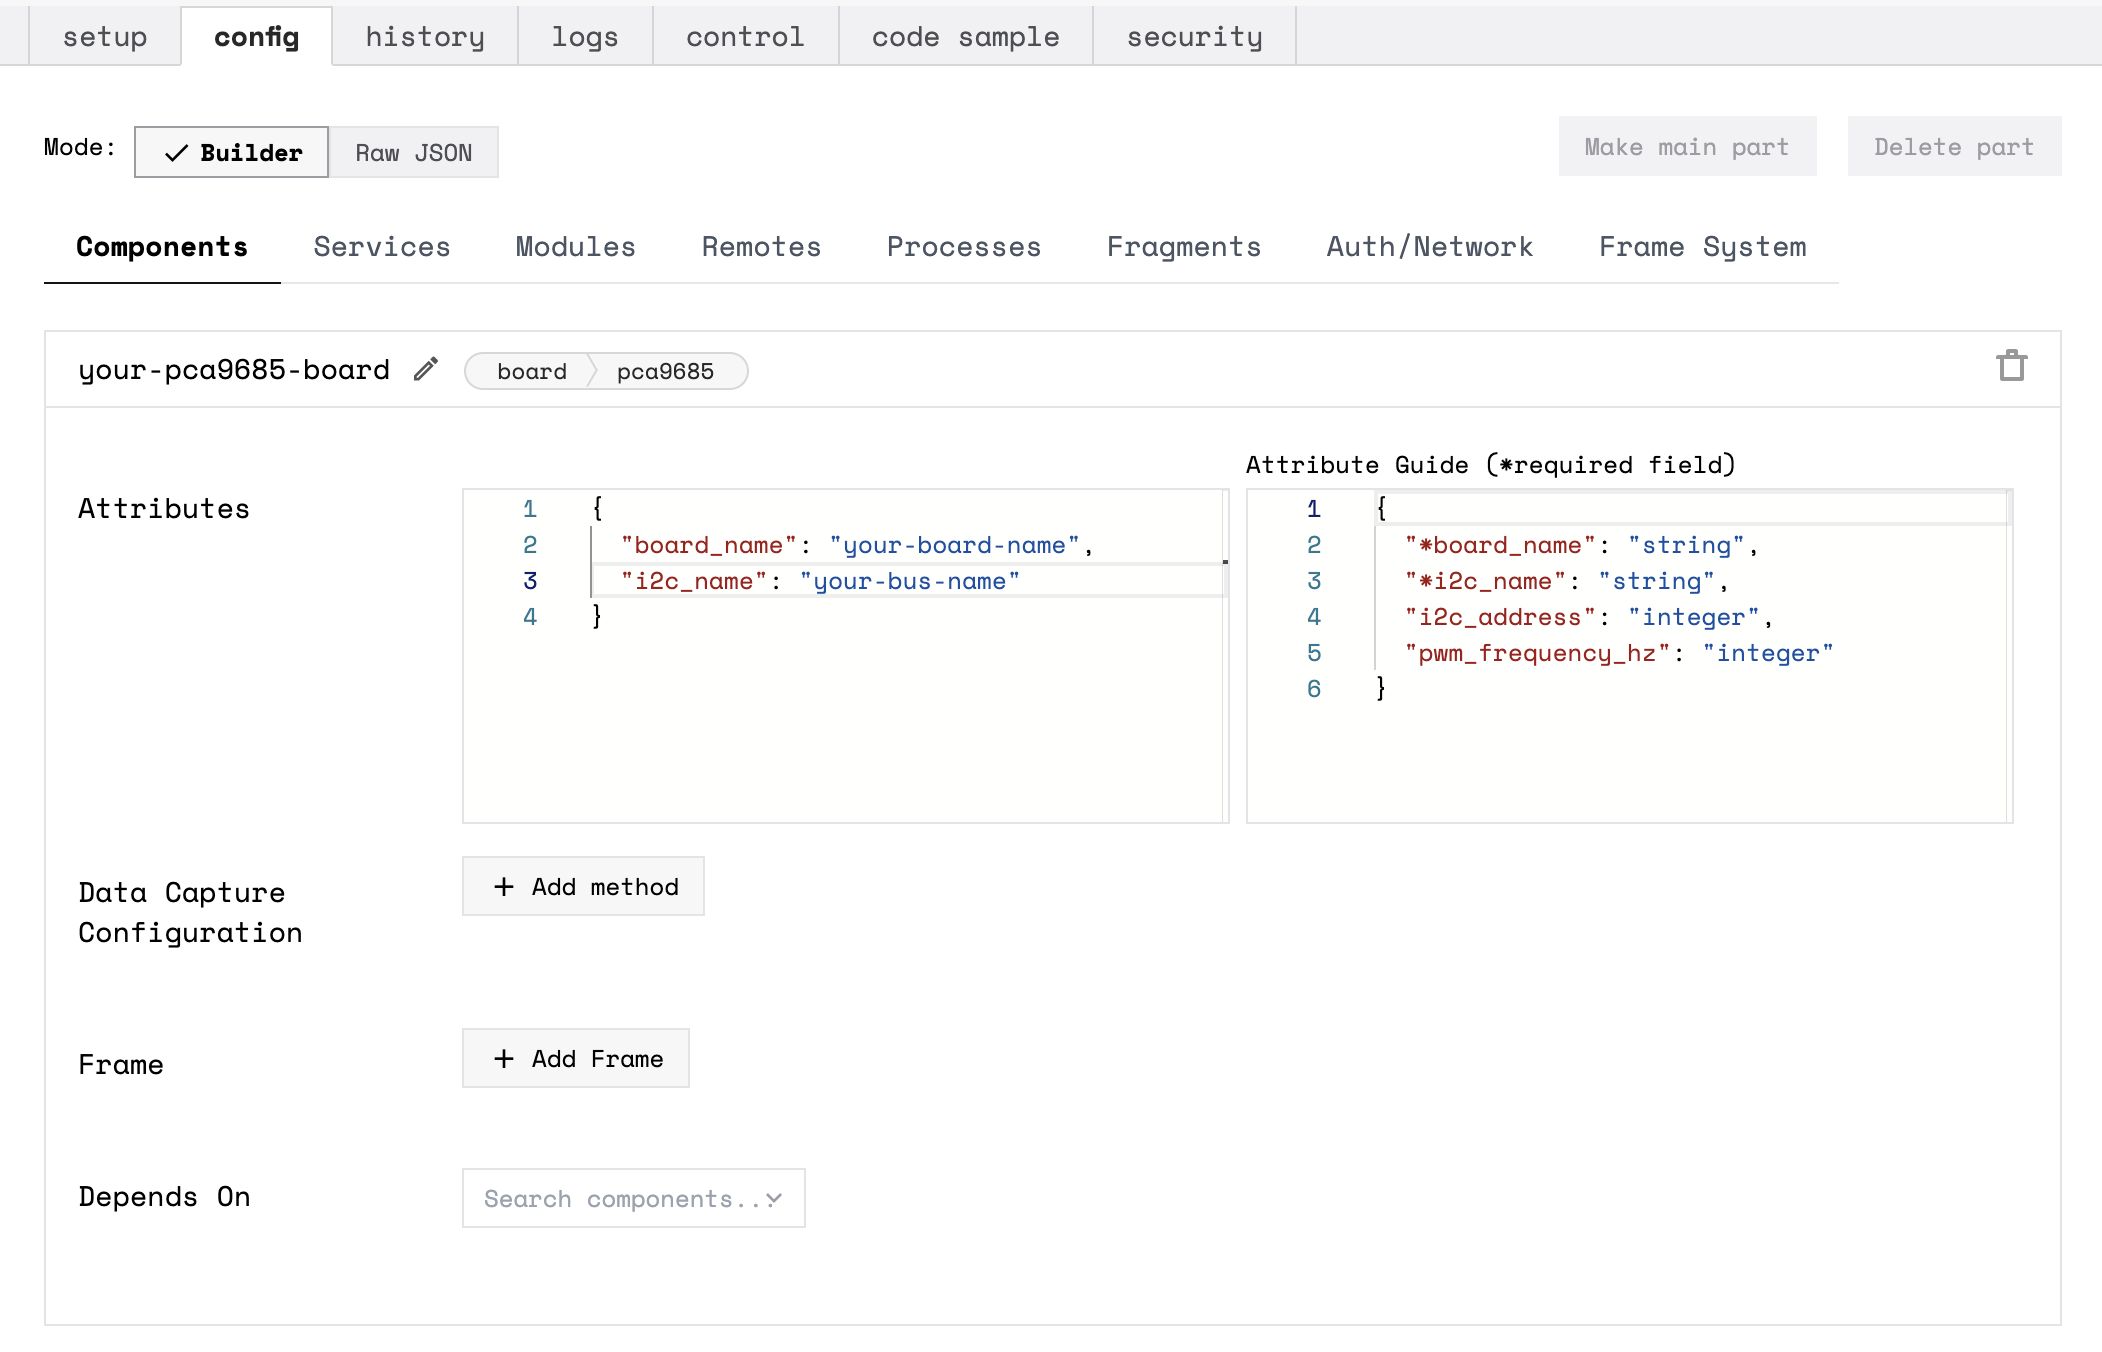
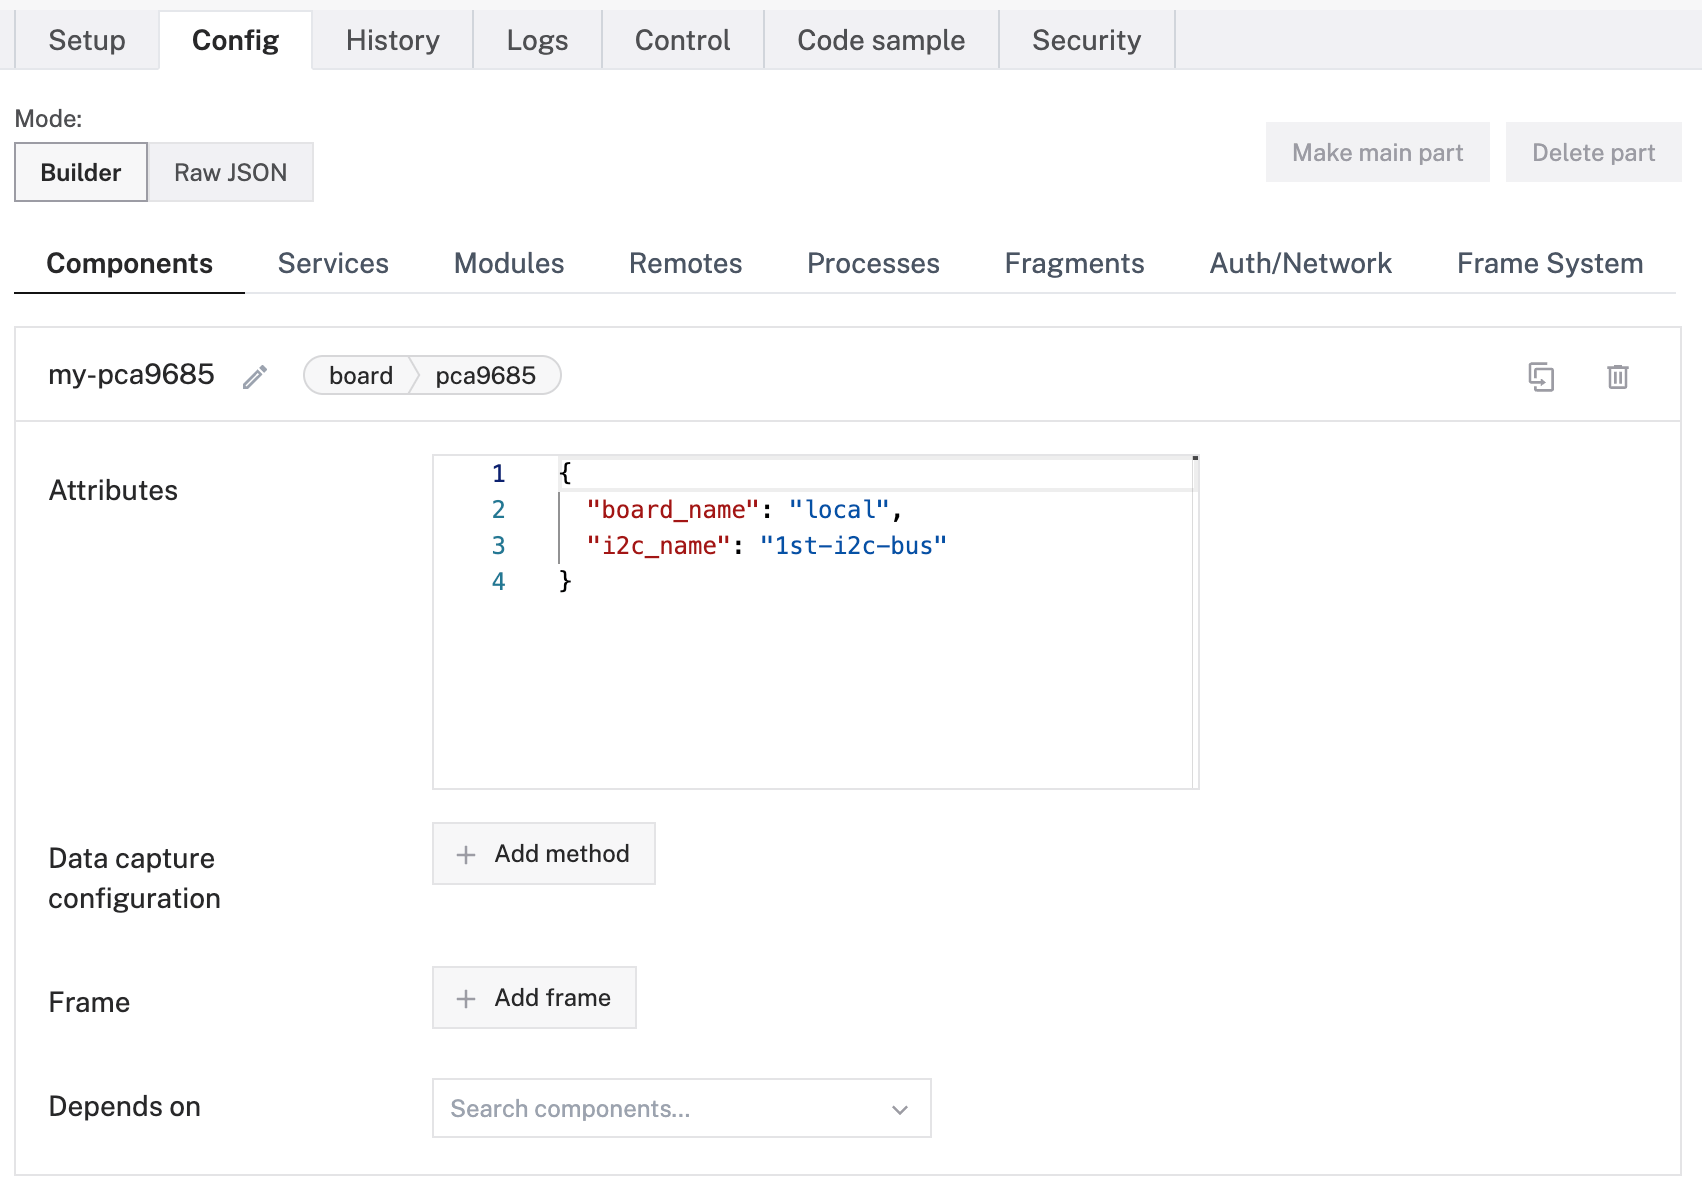
DOCS-1222: Update PCA9685 I2C config info (#2015)

diff --git a/docs/components/board/pca9685.md b/docs/components/board/pca9685.md
@@ -31,6 +31,7 @@ Then remove and fill in the attributes as applicable to your board, according to
 {
   "board_name": "<your-board-name>",
   "i2c_name": "<your-bus-name>",
+  "i2c_bus": “<bus-identifier>”,
   "i2c_address": <int>
 }
 ```
@@ -40,8 +41,7 @@ Then remove and fill in the attributes as applicable to your board, according to
 
 ```json {class="line-numbers linkable-line-numbers"}
 {
-  "board_name": "local-pi",
-  "i2c_name": "1st-i2c-bus"
+  "i2c_bus": “1”
 }
 ```
 
@@ -60,7 +60,10 @@ Then remove and fill in the attributes as applicable to your board, according to
       "type": "board",
       "namespace": "rdk",
       "attributes": {
-        "board_name": "<your-board-name>"
+        "board_name": "<your-board-name>",
+        "i2c_name": "<your-bus-name>",
+        "i2c_bus": “<string>”,
+        "i2c_address": <int>
       },
       "depends_on": []
     }
@@ -76,7 +79,17 @@ The following attributes are available for `pca9685` boards:
 <!-- prettier-ignore -->
 | Name | Type | Inclusion | Description |
 | ---- | ---- | --------- | ----------- |
-| `board_name` | string | **Required** | The `name` of the board with GPIO pins your `pca9685` is [connected to](https://learn.adafruit.com/16-channel-pwm-servo-driver/hooking-it-up). |
+| `board_name` | string | Optional | The `name` of the board with GPIO pins your `pca9685` is [connected to](https://learn.adafruit.com/16-channel-pwm-servo-driver/hooking-it-up). |
+| `i2c_name` | string | Optional | The `name` of the `i2c` your `pca9685` is connected to, as configured in your main board's section of the config file. |
+| `i2c_bus` | string | Optional | The index of the board with GPIO pins your `pca9685` is connected to. Often a number. <br> Example: `”1”` |
+| `i2c_address` | int | Optional | The PCA9685's unique [I<sup>2</sup>C address](https://learn.adafruit.com/i2c-addresses/overview). |
+
+{{% alert title="Important" color="note" %}}
+
+Your PCA9685's config needs to include either just `i2c_bus`, or both `board_name` and `i2c_name`.
+Using `board_name` and `i2c_name` requires you to explicitly configure I<sup>2</sup>Cs on your main board, whereas using `i2c_bus` does not.
+
+{{% /alert %}}
 
 <!--
 | `analogs` | object | Optional | Attributes of any pins that can be used as Analog-to-Digital Converter (ADC) inputs. See [configuration info](/components/board/#analogs). |
